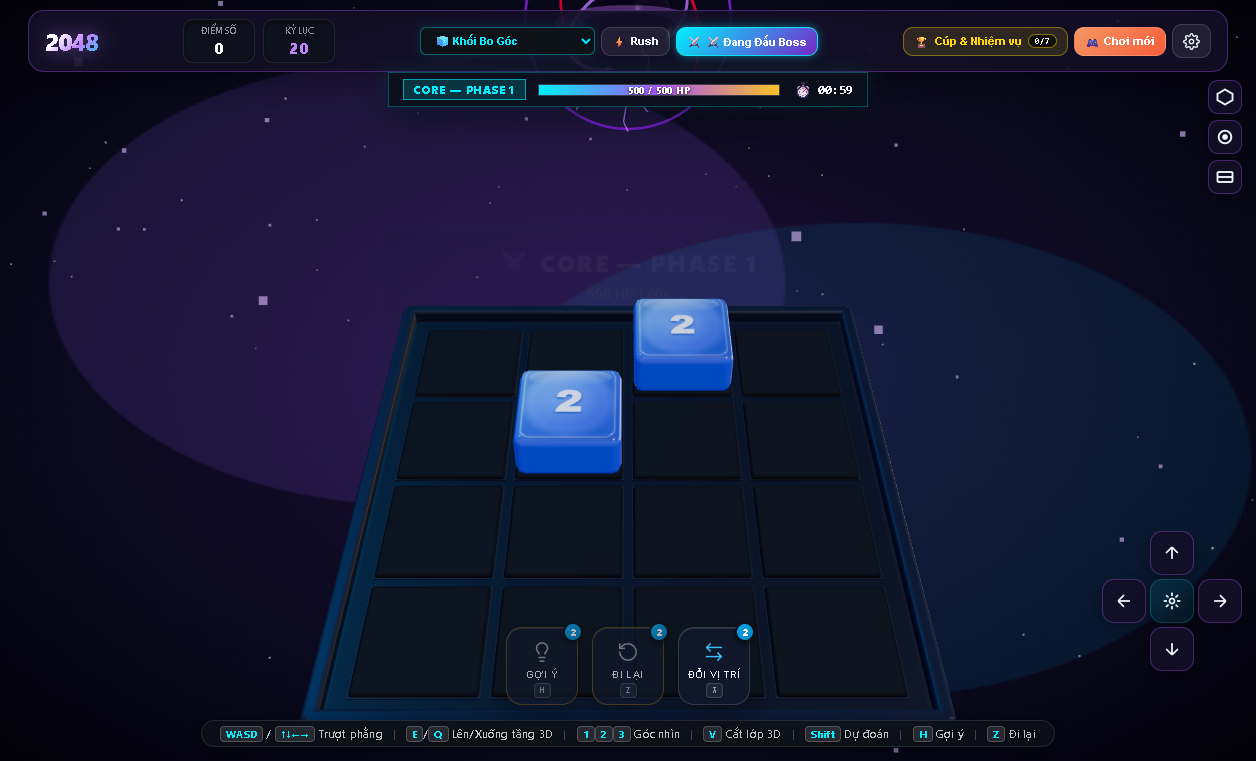
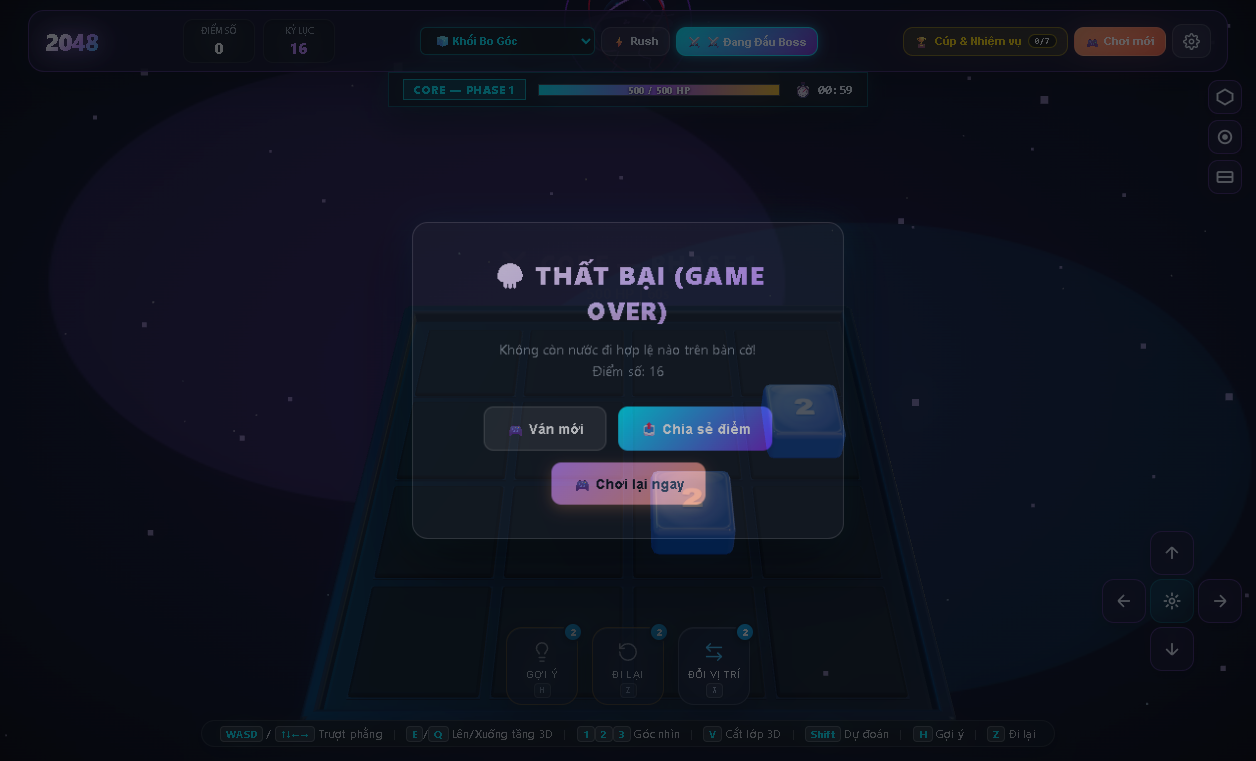
fix: resolve game-over detection after tile spawn and restore, unblock stuck full board

diff --git a/src/main.js b/src/main.js
@@ -912,6 +912,12 @@ class GameApp {
       this.updateScoreUI();
       this.updateSpellUI();
       this.showSpellToast('💾 Đã khôi phục ván chơi trước!');
+
+      if (!this.gameLogic.hasValidMoves()) {
+        setTimeout(() => {
+          this.triggerGameOverModal();
+        }, 300);
+      }
       return true;
     } catch (e) {
       console.warn('Could not restore saved game:', e);
@@ -1043,8 +1049,18 @@ class GameApp {
       this.cancelSwapMode();
     }
 
+    if (this.gameLogic.gameOver || !this.gameLogic.hasValidMoves()) {
+      this.triggerGameOverModal();
+      return;
+    }
+
     const result = this.gameLogic.move(direction);
-    if (!result.moved) return;
+    if (!result.moved) {
+      if (!this.gameLogic.hasValidMoves()) {
+        this.triggerGameOverModal();
+      }
+      return;
+    }
 
     this.isAnimating = true;
     this.comboCount = 0; // Reset combo per move
@@ -1242,6 +1258,10 @@ class GameApp {
 
     this.spawnTile();
 
+    // Check game over right after the new tile has been placed on the grid
+    const isGameOver = !this.gameLogic.hasValidMoves();
+    this.gameLogic.gameOver = isGameOver;
+
     if (result.won) {
       soundManager.playWin();
       this.saveGameState();
@@ -1262,38 +1282,45 @@ class GameApp {
       return;
     }
 
-    if (result.gameOver) {
-      this.isAnimating = false; // UNFREEZE IMMEDIATELY
-      if (this.aiBot) this.aiBot.stop();
-      if (this.isBossRaid && this.bossManager) {
-        this.bossManager.isDefeated = true;
-      }
-      soundManager.playGameOver();
-      this.clearSavedGameState();
-      this.showModal({
-        title: '💀 THẤT BẠI (GAME OVER)',
-        message: `${t('modal_gameover_msg')}\n${t('score')}: ${this.gameLogic.score.toLocaleString()}`,
-        primaryText: '🎮 Chơi lại ngay',
-        secondaryText: '🎮 Ván mới',
-        onPrimary: () => {
-          this.hideModal();
-          this.isAnimating = false;
-          this.startNewGame(false);
-        },
-        onSecondary: () => {
-          this.hideModal();
-          this.isAnimating = false;
-          if (this.isBossRaid) {
-            this.toggleBossRaid();
-          }
-          this.startNewGame(false);
-        }
-      });
+    if (isGameOver) {
+      this.triggerGameOverModal();
       return;
     }
 
     this.saveGameState();
     this.isAnimating = false;
+  }
+
+  triggerGameOverModal(customMessage) {
+    this.gameLogic.gameOver = true;
+    this.isAnimating = false; // UNFREEZE IMMEDIATELY
+    if (this.aiBot) this.aiBot.stop();
+    if (this.isBossRaid && this.bossManager) {
+      this.bossManager.isDefeated = true;
+    }
+    soundManager.playGameOver();
+    this.clearSavedGameState();
+
+    const msg = customMessage || `${t('modal_gameover_msg')}\n${t('score')}: ${this.gameLogic.score.toLocaleString()}`;
+    this.showModal({
+      title: '💀 THẤT BẠI (GAME OVER)',
+      message: msg,
+      primaryText: '🎮 Chơi lại ngay',
+      secondaryText: '🎮 Ván mới',
+      onPrimary: () => {
+        this.hideModal();
+        this.isAnimating = false;
+        this.startNewGame(false);
+      },
+      onSecondary: () => {
+        this.hideModal();
+        this.isAnimating = false;
+        if (this.isBossRaid) {
+          this.toggleBossRaid();
+        }
+        this.startNewGame(false);
+      }
+    });
   }
 
   showModal({ title, message, primaryText, secondaryText, onPrimary, onSecondary }) {
@@ -1321,17 +1348,17 @@ class GameApp {
       this.modalBtnSecondary.style.display = 'none';
     }
 
-    this.modalOverlay.style.display = 'flex';
-    this.modalOverlay.style.pointerEvents = 'auto';
+    this.modalOverlay.style.setProperty('display', 'flex', 'important');
+    this.modalOverlay.style.setProperty('pointer-events', 'auto', 'important');
     this.modalOverlay.classList.add('active');
   }
 
   hideModal() {
     this.modalOverlay.classList.remove('active');
-    this.modalOverlay.style.pointerEvents = 'none';
+    this.modalOverlay.style.setProperty('pointer-events', 'none', 'important');
     setTimeout(() => {
       if (!this.modalOverlay.classList.contains('active')) {
-        this.modalOverlay.style.display = 'none';
+        this.modalOverlay.style.setProperty('display', 'none', 'important');
       }
     }, 240);
     this.isAnimating = false;

diff --git a/index.html b/index.html
@@ -27,17 +27,17 @@
 
   <link rel="icon" type="image/svg+xml" href="./favicon.svg">
   <link rel="manifest" href="./manifest.json">
-  <link rel="stylesheet" href="./src/style.css?v=5.6.0">
+  <link rel="stylesheet" href="./src/style.css?v=5.6.1">
   <script>
     if ('serviceWorker' in navigator) {
       window.addEventListener('load', () => {
-        navigator.serviceWorker.register('./sw.js?v=5.6.0').then(reg => {
+        navigator.serviceWorker.register('./sw.js?v=5.6.1').then(reg => {
           reg.update();
         }).catch(() => {});
       });
       navigator.serviceWorker.addEventListener('controllerchange', () => {
-        if (!sessionStorage.getItem('sw_reloaded_560')) {
-          sessionStorage.setItem('sw_reloaded_560', '1');
+        if (!sessionStorage.getItem('sw_reloaded_561')) {
+          sessionStorage.setItem('sw_reloaded_561', '1');
           window.location.reload();
         }
       });
@@ -322,8 +322,8 @@
   </div>
 
   <!-- Game Over / Victory Modal -->
-  <div id="modal-overlay" class="modal-overlay" style="display: none !important; pointer-events: none !important;">
-    <div class="modal-card" style="pointer-events: none;">
+  <div id="modal-overlay" class="modal-overlay">
+    <div class="modal-card">
       <h2 id="modal-title" class="modal-title" data-i18n="modal_victory_title">CHIẾN THẮNG!</h2>
       <p id="modal-message" class="modal-message" data-i18n="modal_victory_msg">Chúc mừng bạn đã đạt khối 2048!</p>
       <div class="modal-actions">
@@ -494,6 +494,6 @@
   </div>
 
   <!-- Main Game Script -->
-  <script type="module" src="./src/main.js?v=5.6.0"></script>
+  <script type="module" src="./src/main.js?v=5.6.1"></script>
 </body>
 </html>

diff --git a/sw.js b/sw.js
@@ -1,4 +1,4 @@
-const CACHE_NAME = 'v5.6.0-2048-hypercube';
+const CACHE_NAME = 'v5.6.1-2048-hypercube';
 const CACHE_URLS = [
   './',
   './index.html',

diff --git a/verify_game.py b/verify_game.py
@@ -418,37 +418,50 @@ def run_full_verification():
             assert boss_check.get('hasLightning') == True, "Electronic lightning arcs must exist"
             print("  ✓ Dark Singularity Core 3D & 3 Gimbal Rings verified 100%!")
 
-            # Step 8: Verify Game Over Modal & Click Restart
-            print("\n[Step 8] Testing Game Over Modal & Unfrozen Restart Button...")
+            # Step 8: Verify Real-World Game Over on Full Stuck Board (User Screenshot Reproduction)
+            print("\n[Step 8] Testing Real-World Game Over Detection on User's Stuck Board...")
             modal_check = ws.call("Runtime.evaluate", {
                 "expression": """
-                (() => {
+                (async () => {
                     const app = window.gameApp;
-                    // Trigger game over
-                    app.isAnimating = true;
-                    app.gameLogic.gameOver = true;
-                    app.showModal({
-                        title: '💀 THẤT BẠI (GAME OVER)',
-                        message: 'Test Game Over Message',
-                        primaryText: '🎮 Chơi lại ngay',
-                        secondaryText: '🎮 Ván mới',
-                        onPrimary: () => {
-                            app.hideModal();
-                            app.isAnimating = false;
-                            app.startNewGame(false);
+                    // Clean board and inject exact 16-tile stuck state from user screenshot:
+                    // [ 2,  16,   4,   2 ]
+                    // [ 256, 512, 128,  16 ]
+                    // [ 16,  64,  32,   8 ]
+                    // [ 4,   8,  16,   4 ]
+                    app.cleanAllSceneTiles();
+                    app.tiles3D = app.createEmptyTileGrid();
+
+                    const gridValues = [
+                        [ 2,  16,   4,   2 ],
+                        [ 256, 512, 128,  16 ],
+                        [ 16,  64,  32,   8 ],
+                        [ 4,   8,  16,   4 ]
+                    ];
+
+                    for (let r = 0; r < 4; r++) {
+                        for (let c = 0; c < 4; c++) {
+                            app.spawnSpecificTile(0, r, c, gridValues[r][c]);
                         }
-                    });
+                    }
+
+                    // Attempt a move on this full stuck board
+                    await app.handleMove('up');
+
                     const overlay = document.getElementById('modal-overlay');
                     return {
+                        tileCount: app.tiles3D[0].flat().filter(Boolean).length,
+                        hasValidMoves: app.gameLogic.hasValidMoves(),
                         isActive: overlay.classList.contains('active'),
                         title: document.getElementById('modal-title').textContent,
                         primaryBtnText: document.getElementById('modal-btn-primary').textContent
                     };
                 })()
                 """,
+                "awaitPromise": True,
                 "returnByValue": True
             }).get('result', {}).get('value', {})
-            print(f"    -> Modal state before restart: {modal_check}")
+            print(f"    -> Modal state after moving on stuck board: {modal_check}")
             assert modal_check.get('isActive') == True, "Modal must be active"
             assert "THẤT BẠI" in modal_check.get('title', ''), "Title must contain THẤT BẠI"
 
